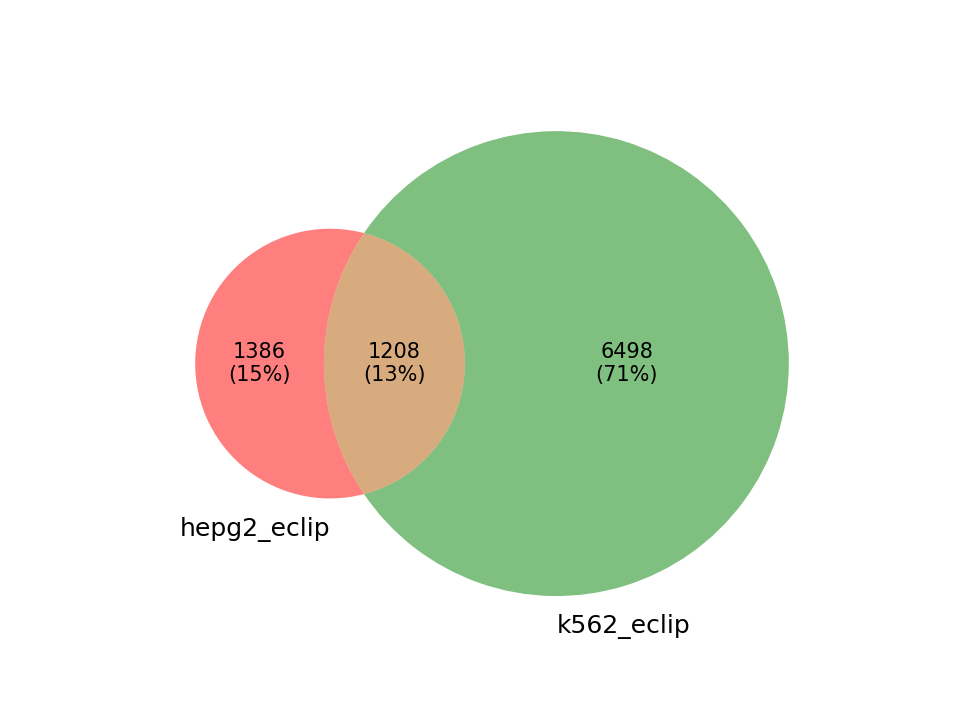
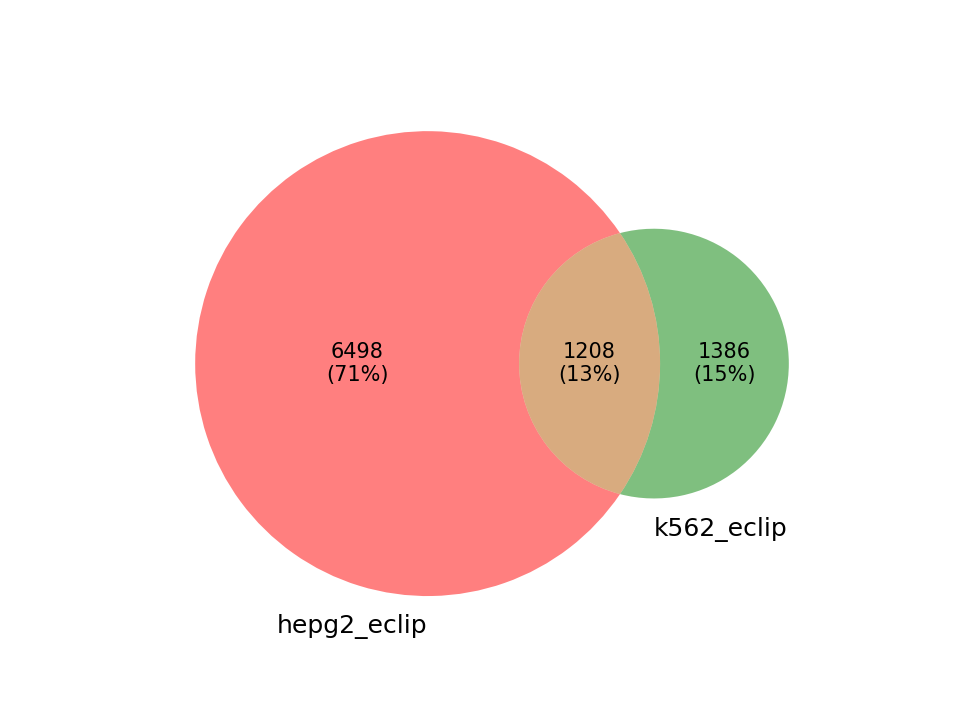
mo

diff --git a/README.md b/README.md
@@ -613,7 +613,7 @@ gunzip -c ENCFF871NYM.bed.gz | awk '{print $1"\t"$2"\t"$3"\t"$4"\t"$7"\t"$6}' > 
 Next we search for motifs in both using `rbpbench batch`:
 
 ```
-rbpbench batch --bed RBFOX2_HepG2_IDR_peaks.bed RBFOX2_K562_IDR_peaks.bed --genome hg38.fa --rbp-list RBFOX2 RBFOX2 --data-list k562_eclip hepg2_eclip --method-id clipper_idr --out rbfox2_clipper_idr_batch_out
+rbpbench batch --bed RBFOX2_HepG2_IDR_peaks.bed RBFOX2_K562_IDR_peaks.bed --genome hg38.fa --rbp-list RBFOX2 RBFOX2 --data-list hepg2_eclip k562_eclip --method-id clipper_idr --out rbfox2_clipper_idr_batch_out
 ```
 
 And for the comparison:
@@ -622,15 +622,15 @@ And for the comparison:
 rbpbench compare --in rbfox2_clipper_idr_batch_out --out rbfox2_clipper_idr_compare_out
 ```
 
-This gives us one dataset comparison (RBP: RBFOX2, data IDs `k562_eclip` and `hepg2_eclip`), 
+This gives us one dataset comparison (RBP: RBFOX2, data IDs `hepg2_eclip` and `k562_eclip`), 
 with the resulting table:
 
 | Data ID | # regions | # motif hits | % regions with motifs | % motif nucleotides | # motif hits per 1000 nt |
 |:--------------:|:--------------:|:--------------:|:--------------:|:--------------:|:--------------:|
-| k562_eclip | 7477 | 7706 | 41.65 | 4.32 | 14.48 |
-| hepg2_eclip | 3525 | 2594 | 29.33 | 2.93 | 9.81 |
+| hepg2_eclip | 7477 | 7706 | 41.65 | 4.32 | 14.48 |
+| k562_eclip | 3525 | 2594 | 29.33 | 2.93 | 9.81 |
 
-We can see that the eCLIP data from the K562 cell line in general contains more 
+We can see that the eCLIP data from the HepG2 cell line in general contains more 
 motif hits (absolute and percentage-wise), 
 which can hint at the quality of the experimental data.
 
